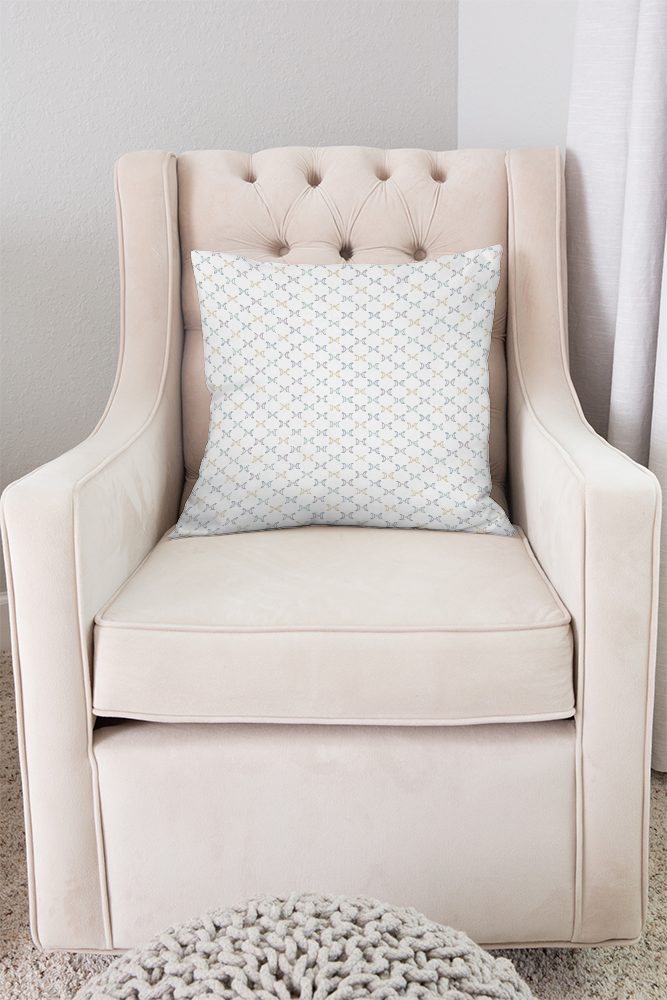
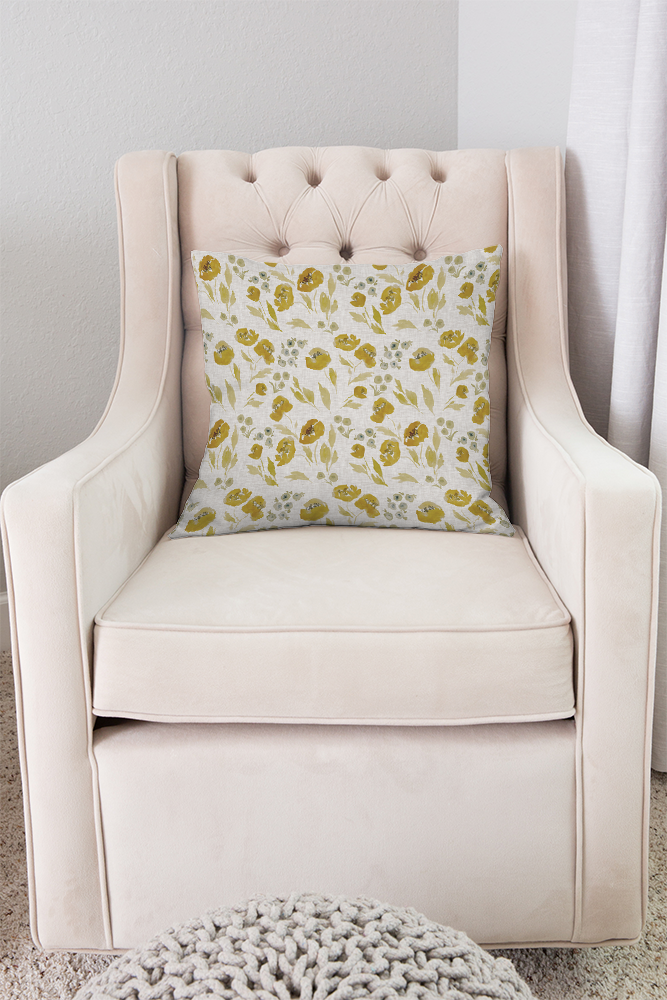
working on dropbox api

Changed region(s): [[0.2699, 0.248, 0.7796, 0.558]]

diff --git a/Dropbox/charlie/test_api.rb b/Dropbox/charlie/test_api.rb
@@ -1,0 +1,59 @@
+require 'json/ext'
+require 'rest-client'
+
+# ----------------------------------------------------------------------
+
+ACCESS_TOKEN = ENV['DROPBOX_ACCESS_TOKEN']
+
+AUTHORIZATION_HEADER = {
+  Authorization: 'Bearer ' + ACCESS_TOKEN,
+  content_type: :json
+}
+
+# ---------------------------------------------------------------------- List folder (Working ...)
+
+values = {
+  path: '',
+  recursive: true
+}
+
+response = RestClient.post('https://api.dropboxapi.com/2/files/list_folder', values.to_json, AUTHORIZATION_HEADER)
+
+JSON.parse(response).each do |resp|
+  puts resp.to_s
+end
+puts ''
+
+# ---------------------------------------------------------------------- List Revisions of a file, where the file is owned by the user (Working ...)
+
+values = {
+  path: '/Screenshots/Screenshot 2020-04-24 17.03.49.png',
+  mode: 'path',
+  limit: 10
+}
+
+response = RestClient.post('https://api.dropboxapi.com/2/files/list_revisions', values.to_json, AUTHORIZATION_HEADER)
+
+JSON.parse(response).each do |resp|
+  puts resp.to_s
+end
+puts ''
+
+# ---------------------------------------------------------------------- List Revisions of a file, where the file is NOT owned by the user (NOT Working ...)
+
+values = {
+  path: '../HawthorneAdminLink.txt',
+  mode: 'path',
+  limit: 10
+}
+
+response = RestClient.post('https://api.dropboxapi.com/2/files/list_revisions', values.to_json, AUTHORIZATION_HEADER)
+
+JSON.parse(response).each do |resp|
+  puts resp.to_s
+end
+puts ''
+
+# ----------------------------------------------------------------------
+
+puts 'Done'

diff --git a/ImageMapping/charlie/do_charlie_mockup.rb b/ImageMapping/charlie/do_charlie_mockup.rb
@@ -13,7 +13,7 @@ INPUT_IMAGE_DPI = 300.0
 # -----------------------------------------------------------------
 # set image file paths
 
-SINGLE_REPEAT_TIF_IMAGE_PATH = 'charlie/images/input/50190.tif'
+SINGLE_REPEAT_TIF_IMAGE_PATH = 'charlie/images/input/90470.tif'
 
 SINGLE_REPEAT_PNG_IMAGE_PATH = 'charlie/images/temp/1_image_png.png'
 
